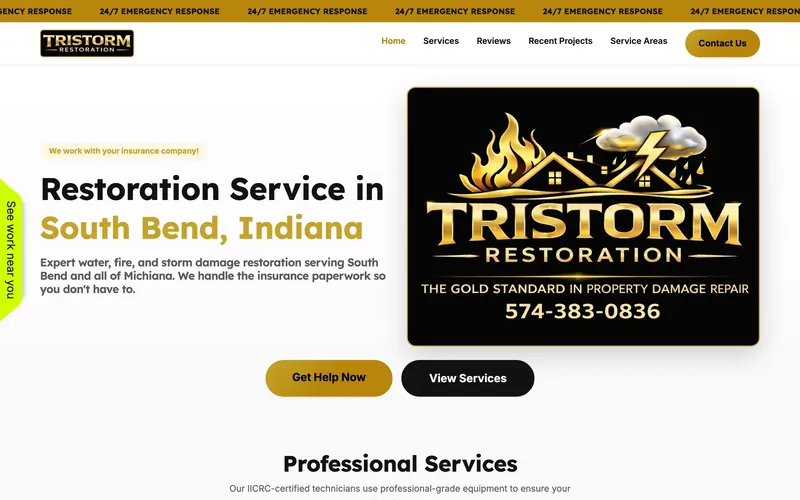
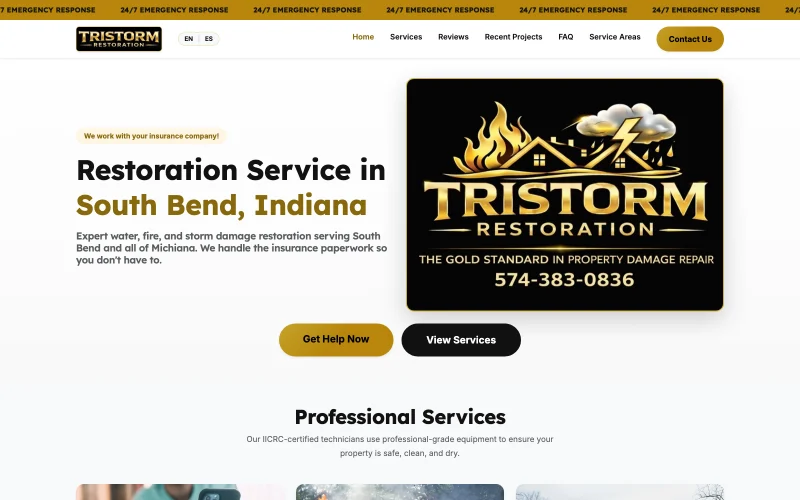
Update hero copy, spotlight eyebrow, and TriStorm portfolio entry

diff --git a/src/data/projects.ts b/src/data/projects.ts
@@ -36,17 +36,17 @@ export const projects: Project[] = [
     locationTag: 'Michiana · Local Trade',
     outcomePill: '24/7 Emergency Call & Estimate Flow',
     summary:
-      'A 24/7 emergency-response website for a family-owned Michiana restoration company built around instant phone calls and fast mobile load times.',
+      'A bilingual (English/Spanish) 24/7 emergency-response website for a family-owned Michiana restoration company—built for instant phone calls, insurance claim clarity, and local neighborhood proof.',
     challenge:
-      'Their customers arrive mid-crisis—with a flooded basement or a storm-damaged roof—almost always on a phone. Every extra tap or slow-loading page is a lost job.',
+      'Their customers arrive mid-crisis—with a flooded basement, fire damage, or a storm-damaged roof—almost always on a phone. Every extra tap or slow-loading page is a lost job.',
     solution:
-      'A mobile-first site engineered around the fastest possible path from a local Google search to a live phone call, with persistent tap-to-call and free-estimate paths on every screen and clear reassurance on how insurance claims work.',
+      'A fast, mobile-first website engineered around the shortest path from a local Google search to a live 24/7 phone call, with an English/Spanish toggle, dedicated restoration service and Michiana town pages, live RankRadius project proof, and clear reassurance that TriStorm handles the insurance paperwork.',
     highlights: [
-      'Persistent tap-to-call and estimate request paths on every screen',
-      'Instant mobile load speed for homeowners in an emergency',
-      'Local SEO and service-area coverage across Michiana',
+      '24/7 tap-to-call and "Get Help Now" emergency paths on every screen',
+      'Built-in English & Spanish (EN | ES) language switcher for Michiana families',
+      'Live neighborhood project feed (powered by RankRadius) plus dedicated service & town pages',
     ],
-    stack: ['Mobile-first design', '24/7 tap-to-call', 'Michiana local SEO', 'Lead tracking'],
+    stack: ['Bilingual (EN / ES)', '24/7 tap-to-call', 'RankRadius live proof', 'Michiana local SEO'],
     image: '/assets/work/tristorm.webp',
     width: 1600,
     height: 1000,
@@ -55,7 +55,7 @@ export const projects: Project[] = [
     external: true,
     industry: 'contractors',
     built:
-      'A mobile-first emergency-response website with tap-to-call and estimate paths on every screen, plus local search structure across Michiana.',
+      'A bilingual (EN/ES) 24/7 emergency-response site with instant tap-to-call, live RankRadius project proof, and dedicated Michiana service and town pages.',
     testimonial: {
       quote:
         'The TriStorm Team loves working with Joe! He created our website and truly took the time to understand our company and brand.',
